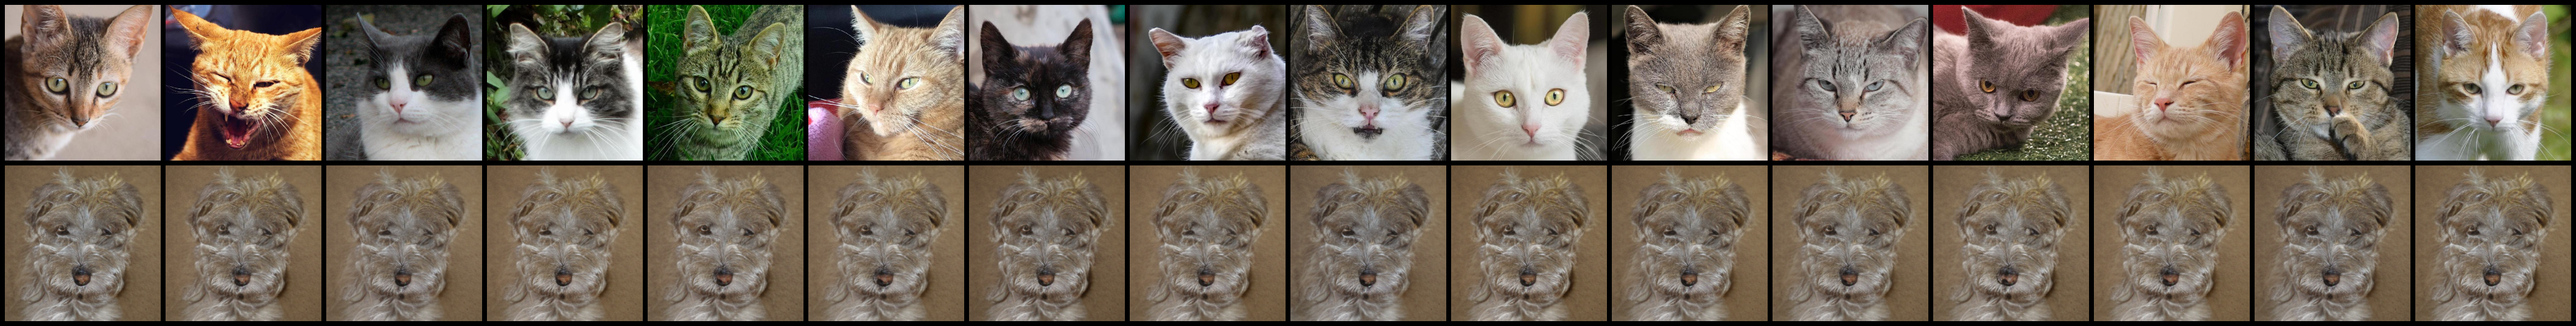
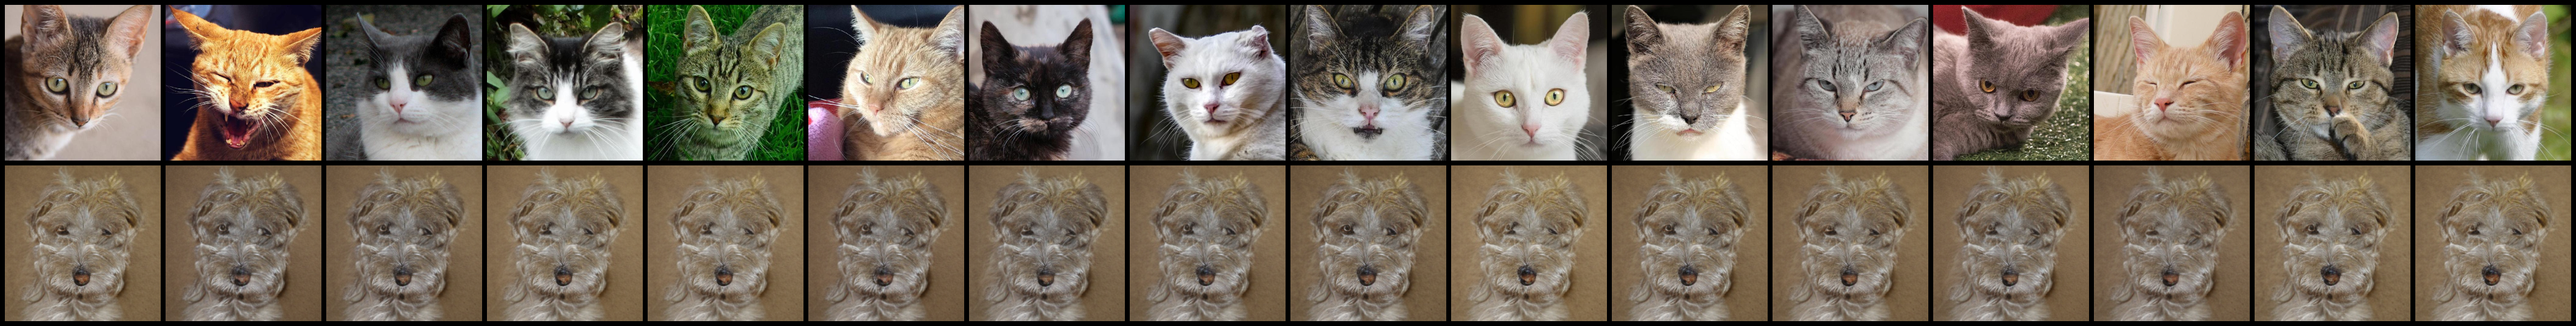
done

diff --git a/infoot/infoot_fit.py b/infoot/infoot_fit.py
@@ -32,7 +32,7 @@ with torch.no_grad():
     solver = infoot.InfoOT(
         standardize(Xs, stats["cat"]),
         standardize(Xt, stats["dog"]),
-        h=args.h, reg=args.reg, lam=args.lam,
+        h=args.h, reg=args.reg
     )
     P = solver.solve(numIter=50, verbose=True)
 
